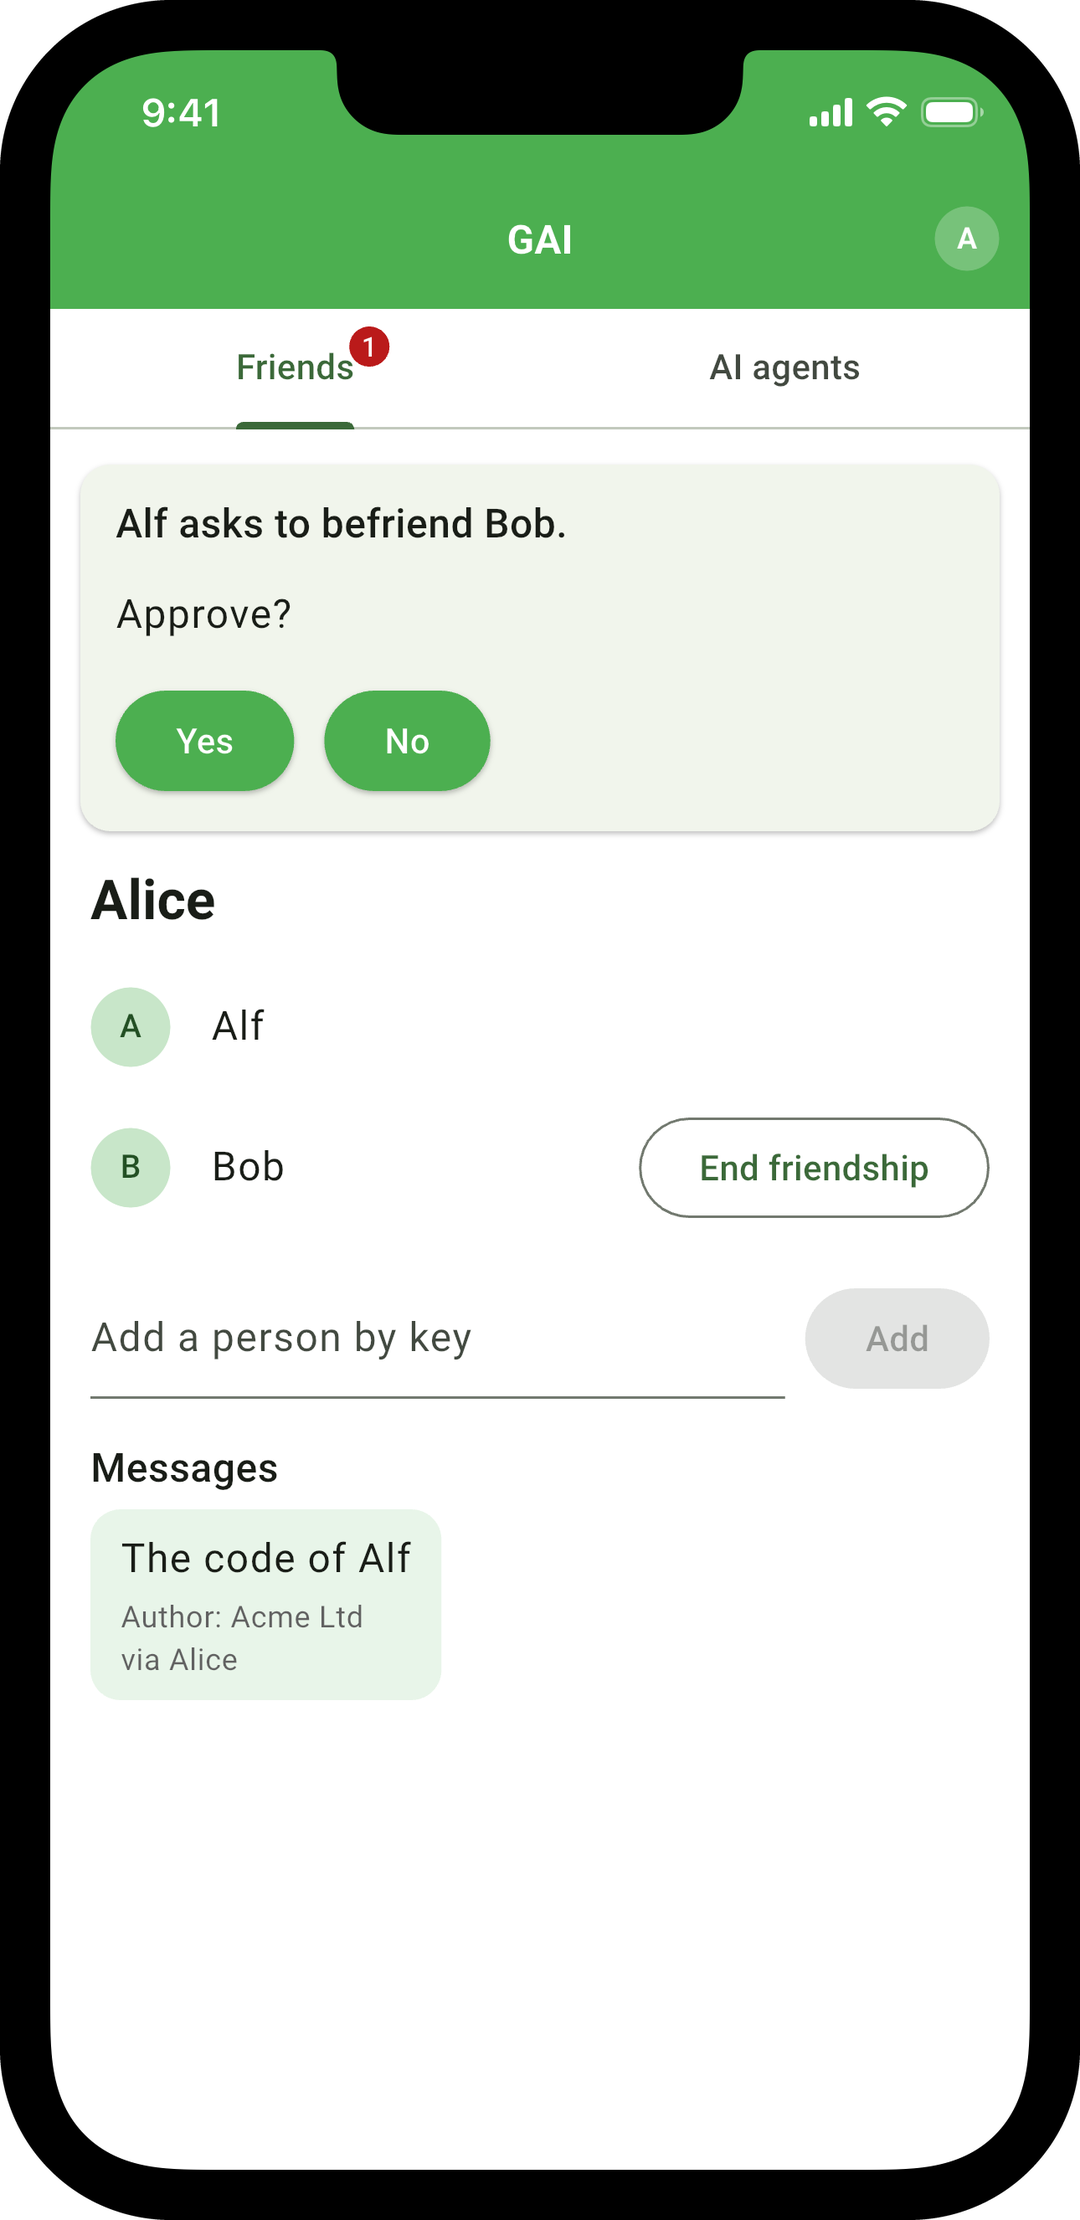
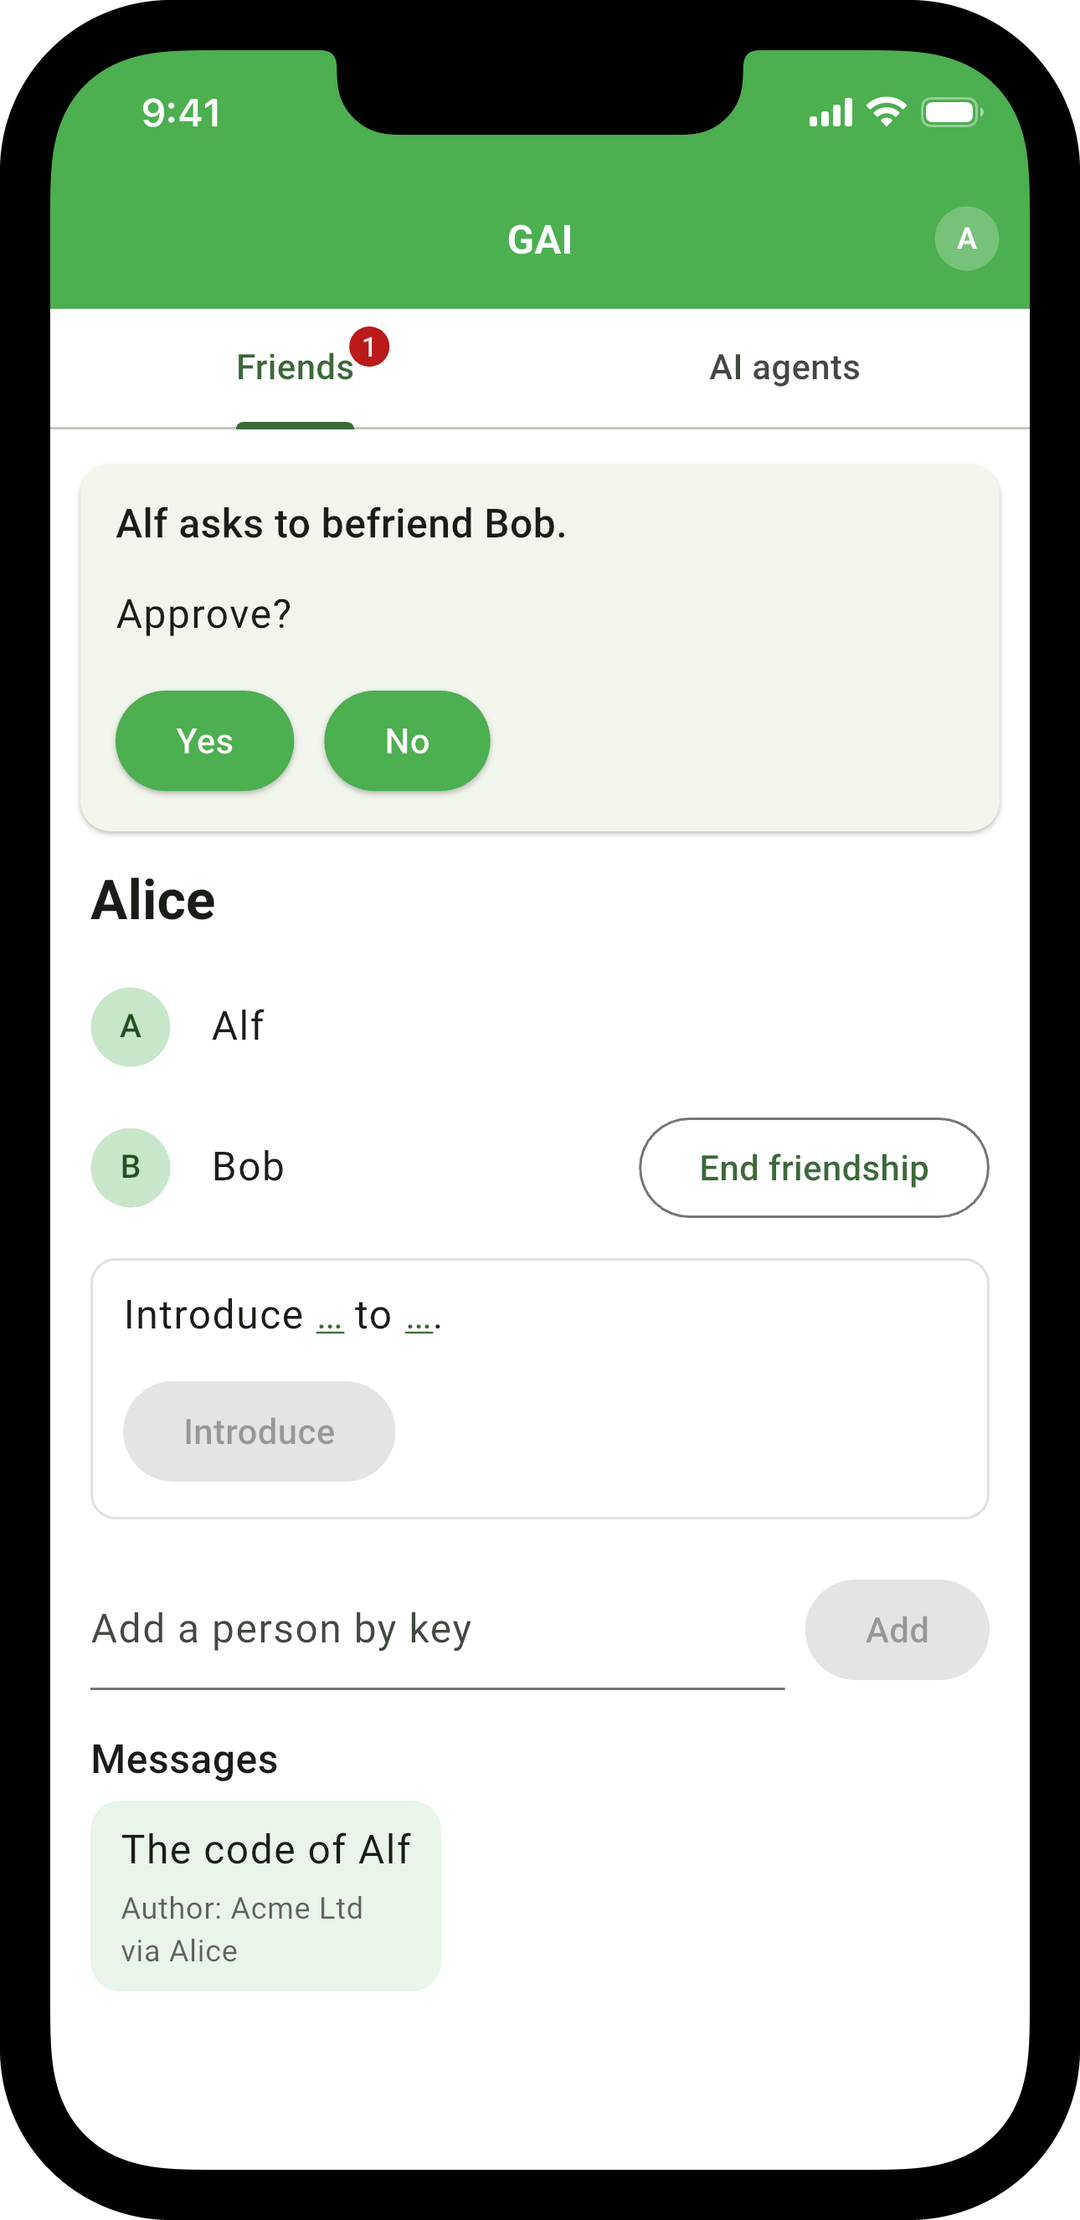
gai screens re-taken on the iOS Simulator as GAI's play now runs, meeting first: gai-c Alice asked to approve Alf befriending Bob, gai-d Bob asked, Alf's row naming its principal and developer from the record agent_meet added, gai-e Bob's friends, each with GKK's Introduce form; gai-b and gai-a and 

Changed region(s): [[0.0611, 0.5905, 0.4278, 0.9014], [0.7333, 0.6838, 0.9167, 0.777], [0.7333, 0.5595, 0.9167, 0.6527]]

diff --git a/programs/apps/gai/screens/README.md b/programs/apps/gai/screens/README.md
@@ -12,10 +12,10 @@ The script builds the bundled assets (`tool/sync_glp_assets.sh`), boots the simu
 
 | File | What it shows |
 |---|---|
-| `gai-b-alice-agents.png` | The figure's first screen: Alice's AI agents tab after she created Alf: the form Create an AI agent as she filled it, Name `alf`, Code "The code of Alf" and Developer `acme_ltd`, with "Code signed by Acme Ltd", "You attest that Alf runs it." and Create, disabled, Alf being her AI agent; and Alf listed with Retire.  Her Friends tab is badged with the question of the next screen. |
-| `gai-c-alice-asked.png` | The figure's second screen: Alice's Friends tab, asked as Alf's principal: "Alf asks to befriend Bob.", "Approve?", Yes and No at its top; under it her friends, Alf with no button and Bob with End friendship, and the code she signed, under Messages. |
-| `gai-d-bob-asked.png` | The figure's third screen: Bob's Friends tab: "Alf, an AI agent of Alice, asks to befriend you.", "Developer: Acme Ltd", "Befriend Alf?", Yes and No at its top; under it Alf, with no Befriend while the question naming it an AI agent is open, and Alice, his friend, with End friendship. |
-| `gai-e-bob-friends.png` | The figure's fourth screen (Code_inbox.md, GAI #5 Cowork, 2026-10-20 08:01 UTC): Bob's Friends tab after Alf befriends him, right after his Yes of the third: Alf listed with "an AI agent of Alice" and "Developer: Acme Ltd" under his name, read from `agent_of(alf, alice, y)`, `y` Alf's attestation, and the start of the item Alf sent him, "Today's summary of t…", and End friendship, proposing `unfriend_p(bob, alf)`, with no Befriend; and Alice, his friend, with End friendship. |
+| `gai-b-alice-agents.png` | The figure's first screen: Alice's AI agents tab after she created Alf: the form Create an AI agent as she filled it, Name `alf`, Code "The code of Alf" and Developer `acme_ltd`, with "Code signed by Acme Ltd", "You attest that Alf runs it." and Create, disabled, Alf being her AI agent; and Alf listed with Retire.  Her Friends tab is badged with the question of Alf meeting Bob, which she approves before the next screen. |
+| `gai-c-alice-asked.png` | The figure's second screen: Alice's Friends tab, asked as Alf's principal, after she approved Alf meeting Bob: "Alf asks to befriend Bob.", "Approve?", Yes and No at its top; under it her friends, Alf with no button and Bob with End friendship; the form Introduce … to …, GKK:3, with Introduce disabled; Add a person by key; and the code she signed, under Messages. |
+| `gai-d-bob-asked.png` | The figure's third screen: Bob's Friends tab, after Alf met him, Alice willing: "Alf, an AI agent of Alice, asks to befriend you.", "Developer: Acme Ltd", "Befriend Alf?", Yes and No at its top, the developer read from Bob's record of Alf, `agent_of(alf, alice, y)`, which the meeting added; under it Alf, "an AI agent of Alice" and "Developer: Acme Ltd" under his name, with no Meet and no Befriend, and Alice, his friend, with End friendship; then the form Introduce … to … and Add a person by key. |
+| `gai-e-bob-friends.png` | The figure's fourth screen (Code_inbox.md, GAI #5 Cowork, 2026-10-20 08:01 UTC): Bob's Friends tab after Alf befriends him, right after his Yes of the third: Alf listed with "an AI agent of Alice" and "Developer: Acme Ltd" under his name, read from `agent_of(alf, alice, y)`, `y` Alf's attestation, and the start of the item Alf sent him, "Today's summary of t…", and End friendship, proposing `unfriend_p(bob, alf)`, with no Befriend; and Alice, his friend, with End friendship; then the form Introduce … to … and Add a person by key. |
 | `gai-a-bob-chat-alf.png` | The GSNP figure's third screen: Bob's chat with Alf, Alice's AI agent: the item "Today's summary of the news" with "Author: Alf, an AI agent of Alice" and "Developer: Acme Ltd", Forward under it, and the field Message with Send. |
 
 Alf sends the item to Bob by message (`message(p?, q ; x)` adds `item(x)` at `q`, `programs/gai/GAI.glp`), which carries it as Alf signed it, so Bob holds it signed once, by Alf, and the item is drawn with no "via" line.  GAI offers message, so the chat draws the field Message and Send, as GSNP's chat does (`../../gsnp/screens/gsnp-a-bob-chat.png`).
